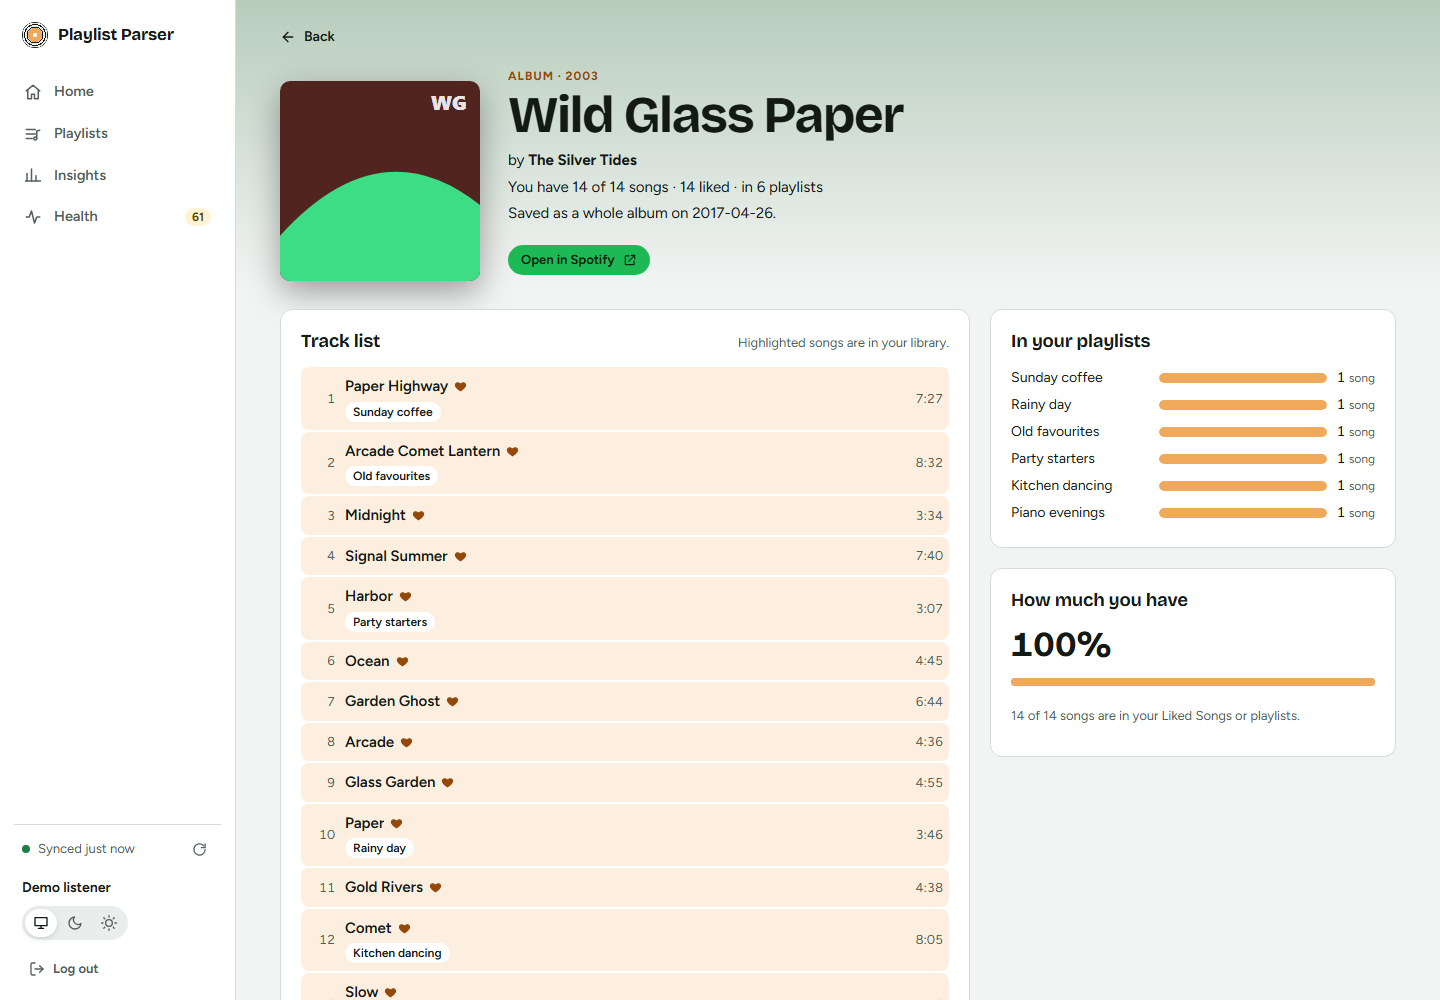
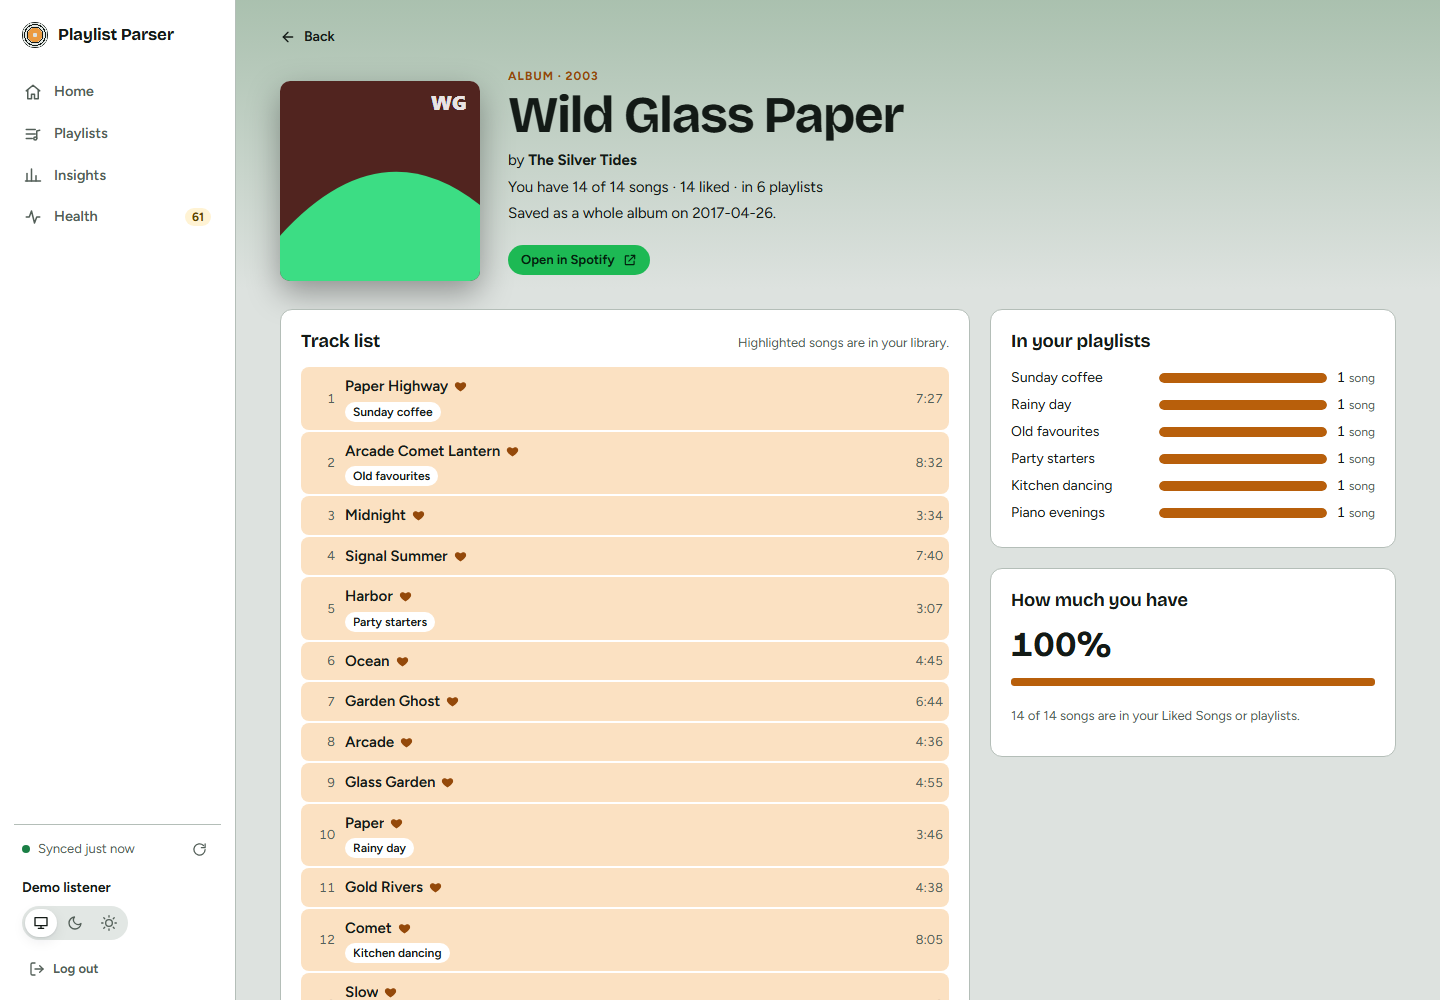
Light theme: real contrast between page, cards and chart marks
The light theme was nearly all white: page vs cards 1.1:1, borders
1.4:1, amber chart marks 2.0:1. Now:

- Grey page background with white cards (borders 1.9:1, inputs and
  switches 3.2:1) and a stronger shadow.
- Chart marks and indicators use a new --mark token: dark amber in
  light mode (4.5:1 on cards), unchanged in dark mode. Buttons keep the
  light amber fill with dark text.
- Stronger fills for chips, the active navigation item and secondary
  bars; segmented controls get a border.

Changed region(s): [[0.1875, 0.341, 0.6875, 1.0], [0.7812, 0.372, 0.9375, 0.527], [0.7188, 0.651, 0.9375, 0.713]]

diff --git a/frontend/src/theme.css b/frontend/src/theme.css
@@ -22,6 +22,9 @@
   --accent-text: #f4b872;     /* accent-coloured text and links */
   --accent-soft: #2c2318;
   --accent-strong: #f8cd98;   /* text on --accent-soft */
+  /* Data marks and indicators (bars, progress, chart fills): >= 3:1 on --surface. */
+  --mark: #f0a95b;
+  --mark-muted: #4b5751;
   --spotify: #1ed760;
   --spotify-hover: #3be477;
   --spotify-ink: #03210e;
@@ -72,21 +75,23 @@
 @media (prefers-color-scheme: light) {
   :root:not([data-theme='dark']) {
     color-scheme: light;
-    --bg: #f2f4f3;
+    --bg: #dde2df;
     --surface: #ffffff;
-    --surface-muted: #e9edeb;
+    --surface-muted: #e2e7e4;
     --surface-raised: #ffffff;
-    --border: #d5dcd8;
-    --border-strong: #b9c3bd;
+    --border: #b4beb8;
+    --border-strong: #84908a;
     --text: #131a16;
     --muted: #535f58;
-    --faint: #9aa59f;
-    --accent: #f0a95b;
-    --accent-hover: #e8963e;
+    --faint: #8f9a94;
+    --accent: #eb9a3f;
+    --accent-hover: #e08a2a;
     --accent-ink: #2a1606;
     --accent-text: #94490a;
-    --accent-soft: #fcefdf;
-    --accent-strong: #713805;
+    --accent-soft: #fbe1c2;
+    --accent-strong: #6b3404;
+    --mark: #b85f0b;
+    --mark-muted: #8f9a94;
     --spotify: #1db954;
     --spotify-hover: #1ed760;
     --spotify-ink: #03210e;
@@ -100,8 +105,8 @@
     --tooltip-bg: #141a17;
     --tooltip-text: #ffffff;
     --cover-bg: #1a1f1c;
-    --chart-grid: #e7ebe9;
-    --heat-0: #e9edeb;
+    --chart-grid: #e3e8e5;
+    --heat-0: #e2e7e4;
     --fam-rock: #2a78d6;
     --fam-hip-hop: #eb6834;
     --fam-folk-country: #1baf7a;
@@ -116,27 +121,29 @@
     --seq-3: #278f53;
     --seq-4: #1a723f;
     --seq-5: #0b4f29;
-    --shadow: 0 1px 2px rgba(16, 24, 40, 0.06), 0 2px 8px rgba(16, 24, 40, 0.08);
+    --shadow: 0 1px 2px rgba(16, 24, 40, 0.10), 0 4px 14px rgba(16, 24, 40, 0.08);
   }
 }
 
 :root[data-theme='light'] {
   color-scheme: light;
-  --bg: #f2f4f3;
+  --bg: #dde2df;
   --surface: #ffffff;
-  --surface-muted: #e9edeb;
+  --surface-muted: #e2e7e4;
   --surface-raised: #ffffff;
-  --border: #d5dcd8;
-  --border-strong: #b9c3bd;
+  --border: #b4beb8;
+  --border-strong: #84908a;
   --text: #131a16;
   --muted: #535f58;
-  --faint: #9aa59f;
-  --accent: #f0a95b;
-  --accent-hover: #e8963e;
+  --faint: #8f9a94;
+  --accent: #eb9a3f;
+  --accent-hover: #e08a2a;
   --accent-ink: #2a1606;
   --accent-text: #94490a;
-  --accent-soft: #fcefdf;
-  --accent-strong: #713805;
+  --accent-soft: #fbe1c2;
+  --accent-strong: #6b3404;
+  --mark: #b85f0b;
+  --mark-muted: #8f9a94;
   --spotify: #1db954;
   --spotify-hover: #1ed760;
   --spotify-ink: #03210e;
@@ -150,8 +157,8 @@
   --tooltip-bg: #141a17;
   --tooltip-text: #ffffff;
   --cover-bg: #1a1f1c;
-  --chart-grid: #e7ebe9;
-  --heat-0: #e9edeb;
+  --chart-grid: #e3e8e5;
+  --heat-0: #e2e7e4;
   --fam-rock: #2a78d6;
   --fam-hip-hop: #eb6834;
   --fam-folk-country: #1baf7a;
@@ -166,7 +173,7 @@
   --seq-3: #278f53;
   --seq-4: #1a723f;
   --seq-5: #0b4f29;
-  --shadow: 0 1px 2px rgba(16, 24, 40, 0.06), 0 2px 8px rgba(16, 24, 40, 0.08);
+  --shadow: 0 1px 2px rgba(16, 24, 40, 0.10), 0 4px 14px rgba(16, 24, 40, 0.08);
 }
 
 /* ---- Base ---------------------------------------------------------------- */
@@ -268,7 +275,7 @@ a { color: var(--link); }
 .icon { flex: none; }
 
 /* Segmented control (aria-pressed buttons in a group). */
-.seg { display: inline-flex; background: var(--surface-muted); border-radius: 999px; padding: 3px; gap: 2px; }
+.seg { display: inline-flex; background: var(--surface-muted); border: 1px solid var(--border); border-radius: 999px; padding: 2px; gap: 2px; }
 .seg button {
   font: inherit; font-size: 13px; font-weight: 600; border: none; background: none; color: var(--muted);
   padding: 5px 14px; min-height: 30px; border-radius: 999px; cursor: pointer; white-space: nowrap;
@@ -345,7 +352,7 @@ a.sp-cover:hover img { filter: brightness(1.12) saturate(1.1); }
 @keyframes shimmer { to { background-position: -200% 0; } }
 
 .progress-track { display: inline-block; height: 6px; background: var(--surface-muted); border-radius: 3px; overflow: hidden; }
-.progress-fill { display: block; height: 100%; background: var(--accent); border-radius: 3px; transition: width 0.3s ease; }
+.progress-fill { display: block; height: 100%; background: var(--mark); border-radius: 3px; transition: width 0.3s ease; }
 
 .empty { text-align: center; padding: 40px 16px; color: var(--muted); }
 .empty h2 { color: var(--text); margin: 0 0 6px; font-size: 1.2rem; }

diff --git a/frontend/src/components/DecadeBars.vue b/frontend/src/components/DecadeBars.vue
@@ -50,8 +50,8 @@ const pct = (x) => `${Math.round(x * 100)}%`;
 .plot { display: flex; align-items: stretch; gap: 8px; height: 190px; }
 .col { flex: 1; display: flex; flex-direction: column; align-items: center; gap: 4px; min-width: 0; }
 .track { position: relative; flex: 1; width: 100%; display: flex; align-items: flex-end; }
-.bar { display: block; width: 100%; border-radius: 6px 6px 2px 2px; background: var(--border-strong); min-height: 2px; }
-.bar.peak { background: var(--accent); }
+.bar { display: block; width: 100%; border-radius: 6px 6px 2px 2px; background: var(--mark-muted); min-height: 2px; }
+.bar.peak { background: var(--mark); }
 .mark { position: absolute; left: -3px; right: -3px; height: 3px; border-radius: 2px; background: var(--text); box-shadow: 0 0 0 2px var(--surface); }
 .val { font-size: 12px; color: var(--muted); font-variant-numeric: tabular-nums; }
 .val.peak { color: var(--text); font-weight: 700; }
@@ -59,7 +59,7 @@ const pct = (x) => `${Math.round(x * 100)}%`;
 .legend { display: flex; flex-wrap: wrap; gap: 4px 16px; margin-top: 10px; font-size: 12.5px; color: var(--muted); }
 .legend span { display: inline-flex; align-items: center; gap: 6px; }
 .sw { display: inline-block; width: 14px; }
-.bar-sw { height: 10px; border-radius: 3px; background: var(--accent); }
+.bar-sw { height: 10px; border-radius: 3px; background: var(--mark); }
 .mark-sw { height: 3px; border-radius: 2px; background: var(--text); }
 @media (max-width: 480px) {
   .plot { gap: 4px; }

diff --git a/frontend/src/views/Playlist.vue b/frontend/src/views/Playlist.vue
@@ -695,7 +695,7 @@ a.card-sub { color: var(--link); }
 .explain { margin: 0 0 12px; color: var(--muted); font-size: 14px; max-width: 70ch; }
 .progress { display: flex; align-items: center; gap: 12px; font-size: 13px; color: var(--muted); margin-bottom: 12px; }
 .progress-track { flex: 0 0 160px; height: 6px; background: var(--surface-muted); border-radius: 3px; overflow: hidden; }
-.progress-fill { display: block; height: 100%; background: var(--accent); transition: width 0.3s ease; }
+.progress-fill { display: block; height: 100%; background: var(--mark); transition: width 0.3s ease; }
 .source { margin: 10px 0 0; font-size: 12px; color: var(--muted); }
 
 /* Track table: scrolls with the page; the header sticks under the section nav. */
@@ -703,7 +703,7 @@ a.card-sub { color: var(--link); }
 .tracks-head h2 { margin: 0; }
 .filter {
   display: flex; align-items: center; gap: 8px; flex: 0 1 320px;
-  background: var(--surface); border: 1px solid var(--border); border-radius: 999px;
+  background: var(--surface); border: 1px solid var(--border-strong); border-radius: 999px;
   padding: 0 12px; color: var(--muted);
 }
 .filter:focus-within { outline: 3px solid var(--focus); outline-offset: 1px; }

diff --git a/frontend/src/views/Playlists.vue b/frontend/src/views/Playlists.vue
@@ -196,7 +196,7 @@ const exporting = computed(() => exportJob.value && !['completed', 'error'].incl
 .toolbar { display: flex; flex-wrap: wrap; align-items: center; gap: 12px; margin: 0 0 20px; }
 .search {
   display: flex; align-items: center; gap: 8px; flex: 1 1 260px;
-  background: var(--surface); border: 1px solid var(--border); border-radius: 999px;
+  background: var(--surface); border: 1px solid var(--border-strong); border-radius: 999px;
   padding: 0 14px; color: var(--muted);
 }
 .search:focus-within { outline: 3px solid var(--focus); outline-offset: 1px; }
@@ -205,7 +205,7 @@ const exporting = computed(() => exportJob.value && !['completed', 'error'].incl
 .sort { display: flex; align-items: center; gap: 6px; font-size: 13px; color: var(--muted); }
 .sort select {
   font: inherit; font-size: 13px; padding: 6px 8px; min-height: 32px; border-radius: 8px;
-  border: 1px solid var(--border); background: var(--surface); color: var(--text);
+  border: 1px solid var(--border-strong); background: var(--surface); color: var(--text);
 }
 
 .grid {

diff --git a/frontend/src/components/LensToggle.vue b/frontend/src/components/LensToggle.vue
@@ -44,13 +44,13 @@ const toggle = () => (lens.value = lens.value === 'all' ? 'handpicked' : 'all');
 }
 .track {
   position: relative; width: 36px; height: 20px; border-radius: 999px; flex: none;
-  background: var(--surface-muted); border: 1px solid var(--border); transition: background 0.15s;
+  background: var(--surface-muted); border: 1px solid var(--border-strong); transition: background 0.15s;
 }
 .thumb {
   position: absolute; top: 2px; left: 2px; width: 14px; height: 14px; border-radius: 50%;
   background: var(--muted); transition: transform 0.15s, background 0.15s;
 }
-.switch[aria-checked='true'] .track { background: var(--accent); border-color: var(--accent); }
-.switch[aria-checked='true'] .thumb { transform: translateX(16px); background: var(--accent-ink); }
+.switch[aria-checked='true'] .track { background: var(--mark); border-color: var(--mark); }
+.switch[aria-checked='true'] .thumb { transform: translateX(16px); background: var(--surface); }
 .hint { margin: 0; font-size: 13px; color: var(--muted); }
 </style>

diff --git a/frontend/src/components/TasteFingerprint.vue b/frontend/src/components/TasteFingerprint.vue
@@ -99,7 +99,7 @@ const topDecade = computed(() => [...props.profile.decades].sort((a, b) => b.sha
 
 <style scoped>
 .fp { margin: 0; }
-.petal { fill: var(--accent); opacity: 0.9; }
+.petal { fill: var(--mark); opacity: 0.9; }
 .explicit-arc { stroke: var(--fam-pop); }
 .petal-compare { fill: none; stroke: var(--text); stroke-width: 1.5; stroke-dasharray: 4 3; }
 .dec { font-size: 11px; fill: var(--muted); }
@@ -108,6 +108,6 @@ const topDecade = computed(() => [...props.profile.decades].sort((a, b) => b.sha
 .legend { display: flex; flex-wrap: wrap; justify-content: center; gap: 4px 14px; font-size: 12px; color: var(--muted); }
 .legend span { display: inline-flex; align-items: center; gap: 5px; }
 .sw { width: 11px; height: 11px; border-radius: 3px; display: inline-block; }
-.petal-sw { background: var(--accent); }
+.petal-sw { background: var(--mark); }
 .compare-sw { border: 2px dashed var(--text); }
 </style>

diff --git a/frontend/src/views/Welcome.vue b/frontend/src/views/Welcome.vue
@@ -81,7 +81,7 @@ const DECADES = [['60s', 26], ['70s', 46], ['80s', 74], ['90s', 65], ['00s', 100
 .ex-taste { grid-column: span 2; }
 .ex-bars { display: flex; align-items: flex-end; gap: 8px; height: 110px; margin-top: 16px; }
 .ex-bars div { flex: 1; height: 100%; display: flex; flex-direction: column; justify-content: flex-end; align-items: center; gap: 4px; }
-.ex-bars i { width: 100%; border-radius: 5px 5px 2px 2px; background: var(--accent); }
+.ex-bars i { width: 100%; border-radius: 5px 5px 2px 2px; background: var(--mark); }
 .ex-bars span { font-size: 11px; color: var(--muted); }
 .ex-covers { display: grid; grid-template-columns: repeat(3, 1fr); gap: 4px; padding: 6px; background: var(--cover-bg); border-color: transparent; }
 .ex-covers i { aspect-ratio: 1; border-radius: 4px; }

diff --git a/frontend/src/components/ListeningClock.vue b/frontend/src/components/ListeningClock.vue
@@ -52,7 +52,7 @@ const peak = computed(() => {
       :aria-label="`Recent plays by hour of day; most plays between ${peak}`">
       <circle :cx="C" :cy="C" :r="OUTER" fill="none" stroke="var(--border)" stroke-dasharray="2 4" />
       <circle :cx="C" :cy="C" :r="INNER" fill="none" stroke="var(--border)" />
-      <path v-for="b in bars" :key="b.h" v-show="b.d" :d="b.d || ''" :style="{ fill: 'var(--accent)' }">
+      <path v-for="b in bars" :key="b.h" v-show="b.d" :d="b.d || ''" :style="{ fill: 'var(--mark)' }">
         <title>{{ String(b.h).padStart(2, '0') }}:00 — {{ plural(b.n, 'play') }}</title>
       </path>
       <text v-for="l in labels" :key="l.h" :x="l.x" :y="l.y" text-anchor="middle" class="hour">{{ String(l.h).padStart(2, '0') }}h</text>

diff --git a/frontend/src/views/Compare.vue b/frontend/src/views/Compare.vue
@@ -152,7 +152,7 @@ const names = (t) => t.artists.map((x) => x.name).join(', ');
 .venn-cell strong { font-family: var(--font-display); font-size: 2rem; line-height: 1; }
 .venn-cell span { font-size: 13.5px; color: var(--muted); overflow: hidden; text-overflow: ellipsis; white-space: nowrap; max-width: 100%; }
 .venn-cell:hover { border-color: var(--border-strong); }
-.venn-cell[aria-pressed='true'] { border-color: var(--accent); box-shadow: inset 0 0 0 1px var(--accent); background: var(--accent-soft); }
+.venn-cell[aria-pressed='true'] { border-color: var(--mark); box-shadow: inset 0 0 0 1px var(--mark); background: var(--accent-soft); }
 .venn-cell[aria-pressed='true'] span { color: var(--accent-strong); }
 .merge-line { margin: 12px 0 20px; }
 

diff --git a/frontend/src/components/StatusPanel.vue b/frontend/src/components/StatusPanel.vue
@@ -83,7 +83,7 @@ const exportRunning = computed(() => exportJob.value && !['completed', 'error'].
 .dot { width: 8px; height: 8px; border-radius: 50%; background: var(--faint); flex: none; margin-top: 6px; }
 .dot.ok { background: var(--good); }
 .dot.warn { background: var(--warn-text); }
-.dot.live { background: var(--accent); animation: pulse 1s ease-in-out infinite alternate; }
+.dot.live { background: var(--mark); animation: pulse 1s ease-in-out infinite alternate; }
 @keyframes pulse { from { opacity: 0.35; } to { opacity: 1; } }
 .icon-btn { color: var(--muted); min-width: 28px; min-height: 28px; margin-top: -4px; }
 .warn-text { color: var(--warn-text); margin: 0; }

diff --git a/frontend/src/views/Artist.vue b/frontend/src/views/Artist.vue
@@ -207,7 +207,7 @@ watch(() => props.id, () => (songsShown.value = SONGS_STEP));
 
 .years { display: flex; align-items: flex-end; gap: 3px; height: 90px; }
 .ycol { flex: 1; height: 100%; display: flex; align-items: flex-end; }
-.ycol i { display: block; width: 100%; min-height: 2px; border-radius: 3px 3px 0 0; background: var(--accent); }
+.ycol i { display: block; width: 100%; min-height: 2px; border-radius: 3px 3px 0 0; background: var(--mark); }
 .year-axis { display: flex; justify-content: space-between; font-size: 12px; color: var(--muted); margin-top: 4px; }
 
 .mini-list { list-style: none; margin: 0; padding: 0; display: flex; flex-direction: column; gap: 2px; }

diff --git a/frontend/src/components/BarList.vue b/frontend/src/components/BarList.vue
@@ -7,7 +7,7 @@ const props = defineProps({
   rows: { type: Array, required: true }, // [{ label, value, sub?, to? (in-app), href? (Spotify) }]
   unit: { type: String, required: true },
   max: { type: Number, default: null },
-  color: { type: String, default: 'var(--accent)' },
+  color: { type: String, default: 'var(--mark)' },
 });
 const top = computed(() => props.max ?? Math.max(1, ...props.rows.map((r) => r.value)));
 const fmt = (v) => (typeof v === 'number' ? v.toLocaleString() : v);
